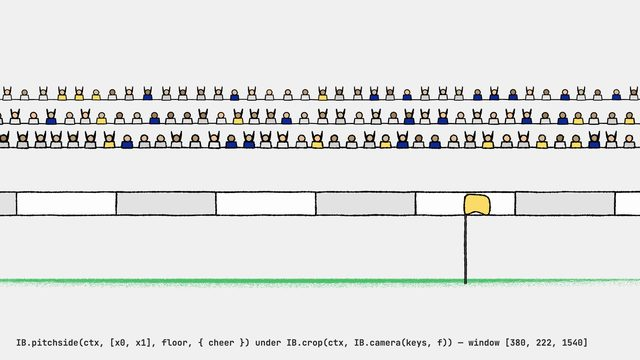
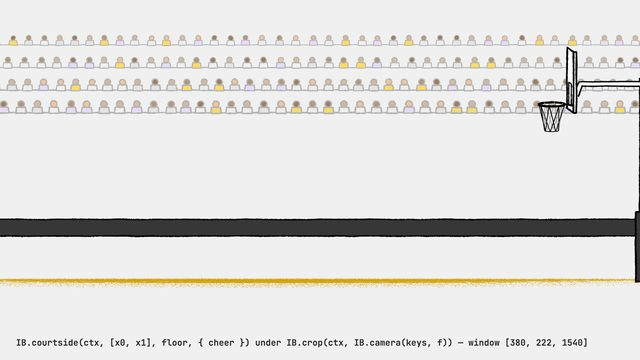
feat: 실내 경기장 배경과 옅은 관중
농구 골대는 가는 먹선이라 관중석 앞에서 묻혔다. IB.stands에 faint(회색 선, 옅은 채움)를 더하고, 관중·코트 옆 벽·마루를 한 번에 그리는 IB.courtside를 둔다. 관중을 줄이거나 빼는 안은 경기장 분위기가 사라져서 버렸다.

Claude-Session: https://claude.ai/code/session_01SxpfC2T1LyEk5ytvqY9P1D

Changed region(s): [[0.0, 0.0917, 1.0, 0.4278], [0.0, 0.5194, 1.0, 0.825], [0.0312, 0.9472, 0.0938, 0.9778]]

diff --git a/IBM/kit/props/sports.js b/IBM/kit/props/sports.js
@@ -1,4 +1,4 @@
-/* props/sports.js — the ball games: the flight of a ball under gravity with its bounces and roll (IB.flight, IB.aim), the balls (IB.soccerBall, IB.basketball, IB.ballTrail), a football goal and a basketball hoop seen from the side with a hint of depth (IB.soccerGoal, IB.hoop), the crowd in the stands and the hoarding in front of them (IB.stands, IB.adBoards, both with the grass in IB.pitchside), the corner flag (IB.cornerFlag), a camera that eases between crop windows (IB.camera) and a scoreboard of drawn segment digits (IB.scoreboard, IB.segDigits). Sizes are for a wide shot where a 1.8 m player is 360 px tall (200 px a metre); opts.s scales a part from there, and line widths stay in screen px. Needs ink.js. */
+/* props/sports.js — the ball games: the flight of a ball under gravity with its bounces and roll (IB.flight, IB.aim), the balls (IB.soccerBall, IB.basketball, IB.ballTrail), a football goal and a basketball hoop seen from the side with a hint of depth (IB.soccerGoal, IB.hoop), the crowd in the stands and the hoarding in front of them (IB.stands, IB.adBoards, both with the grass in IB.pitchside and the arena's in IB.courtside), the corner flag (IB.cornerFlag), a camera that eases between crop windows (IB.camera) and a scoreboard of drawn segment digits (IB.scoreboard, IB.segDigits). Sizes are for a wide shot where a 1.8 m player is 360 px tall (200 px a metre); opts.s scales a part from there, and line widths stay in screen px. Needs ink.js. */
 (function (g) {
   const IB = g.IB, C = IB.C, MG = g.MG;
   const MESH = '#9a9a9a';   // net strings: lighter than ink so the players and the ball read over them
@@ -160,18 +160,19 @@
 
   /* ---------- the crowd and the scoreboard ---------- */
 
-  /* stands(ctx, [x0, x1], top, opts) — the crowd behind the pitch or the court: `rows` tiers of seated fans (a head and a pair of shoulders each), the far rows smaller and greyer, a rail in front of each tier. Most fans are grey; `colors` (the two teams' colours) dress one in `share` of them. cheer: 0 seated still, 1 | 2 the two drawings of a cheer (alternate them on twos: a scattered half of the crowd throws its arms up on each), 'up' everyone standing with arms up (a goal). opts: rows (3), gap (46 px between fans), rh (row height 64 px), s, seed. */
+  /* stands(ctx, [x0, x1], top, opts) — the crowd behind the pitch or the court: `rows` tiers of seated fans (a head and a pair of shoulders each), the far rows smaller and greyer, a rail in front of each tier. Most fans are grey; `colors` (the two teams' colours) dress one in `share` of them. cheer: 0 seated still, 1 | 2 the two drawings of a cheer (alternate them on twos: a scattered half of the crowd throws its arms up on each), 'up' everyone standing with arms up (a goal). opts: rows (3), gap (46 px between fans), rh (row height 64 px), s, seed, faint (grey lines and paler fills: a crowd that sits behind something drawn in ink, like a hoop, and must not compete with it). */
   IB.stands = (ctx, [x0, x1], top, o = {}) => {
     const s = o.s || 1, rows = o.rows || 3, gap = (o.gap || 46) * s, rh = (o.rh || 64) * s, seed = o.seed || 700, cols = o.colors || [], share = o.share == null ? 0.3 : o.share, ch = o.cheer || 0;
+    const line = o.faint ? '#b4b4b4' : C.ink, greys = o.faint ? ['#ececec', '#e4e4e4', '#efefef'] : ['#dedede', '#cfcfcf', '#e6e6e6'];
     for (let row = 0; row < rows; row++) {
       const k = 0.78 + 0.22 * (row / Math.max(1, rows - 1)), y = top + row * rh, r = MG.rng(seed + row * 37), lw = 1.6 + row * 0.35;
-      IB.ink(ctx, [[x0, y + rh * 0.55], [x1, y + rh * 0.55]], { w: lw, seed: seed + 3 + row, taper: false });
+      IB.ink(ctx, [[x0, y + rh * 0.55], [x1, y + rh * 0.55]], { w: lw, color: line, seed: seed + 3 + row, taper: false });
       for (let x = x0 + (row % 2) * gap * 0.5; x < x1; x += gap * (0.9 + 0.2 * r())) {
-        const pick = r(), color = pick < share && cols.length ? cols[Math.floor(r() * cols.length)] : ['#dedede', '#cfcfcf', '#e6e6e6'][Math.floor(r() * 3)], skin = C.skin[Math.floor(r() * 5)], odd = r() < 0.5;
+        const pick = r(), color = pick < share && cols.length ? cols[Math.floor(r() * cols.length)] : greys[Math.floor(r() * 3)], skin = C.skin[Math.floor(r() * 5)], odd = r() < 0.5;
         const up = ch === 'up' || (ch === 1 && odd) || (ch === 2 && !odd), lift = up && ch === 'up' ? 0.25 * rh : 0, hr = 9 * s * k, by = y + rh * 0.5 - lift;
-        if (up) [-1, 1].forEach((sd) => IB.seg(ctx, x + sd * 8 * s * k, by - 10 * s * k, x + sd * 13 * s * k, by - 40 * s * k, { w: lw * 1.6, color: C.ink, seed: seed + row + sd }));
-        IB.ink(ctx, [[x - 15 * s * k, by + 4], [x - 13 * s * k, by - 12 * s * k], [x + 13 * s * k, by - 12 * s * k], [x + 15 * s * k, by + 4]], { closed: true, smooth: false, fill: color, w: lw, seed: seed + row * 7 + Math.round(x) });
-        IB.oval(ctx, x, by - 12 * s * k - hr, hr, hr, { fill: skin, w: lw, seed: seed + Math.round(x) + row, n: 9 });
+        if (up) [-1, 1].forEach((sd) => IB.seg(ctx, x + sd * 8 * s * k, by - 10 * s * k, x + sd * 13 * s * k, by - 40 * s * k, { w: lw * 1.6, color: line, seed: seed + row + sd }));
+        IB.ink(ctx, [[x - 15 * s * k, by + 4], [x - 13 * s * k, by - 12 * s * k], [x + 13 * s * k, by - 12 * s * k], [x + 15 * s * k, by + 4]], { closed: true, smooth: false, fill: color, w: lw, color: line, seed: seed + row * 7 + Math.round(x) });
+        IB.oval(ctx, x, by - 12 * s * k - hr, hr, hr, { fill: skin, w: lw, color: line, seed: seed + Math.round(x) + row, n: 9 });
       }
     }
   };
@@ -196,6 +197,13 @@
     IB.stands(ctx, [x0, x1], floor - 470, { colors: o.colors || [C.navy, C.yellow], share: 0.35, cheer: o.cheer || 0, s: 0.9, seed: o.seed || 710 });
     IB.adBoards(ctx, [x0 - 40, x1 + 40], floor, { back: 160, ht: 56 });
     IB.smear(ctx, (x0 + x1) / 2, floor - 6, x1 - x0 + 200, { h: 16, color: C.green, seed: 9 });
+  };
+
+  /* courtside(ctx, [x0, x1], floor, opts) — the backdrop of a basketball shot in one call: the arena crowd (IB.stands, four faint rows from floor - 600, so the hoop's ink reads over them), a padded courtside wall 110 px behind the floor line, and the wooden floor as a mustard chalk smear. opts: cheer, colors, seed. */
+  IB.courtside = (ctx, [x0, x1], floor, o = {}) => {
+    IB.stands(ctx, [x0, x1], floor - 600, { rows: 4, colors: o.colors || [C.yellow, C.lavender], share: 0.3, cheer: o.cheer || 0, s: 0.85, seed: o.seed || 720, faint: true });
+    IB.ink(ctx, [[x0 - 40, floor - 150], [x1 + 40, floor - 150], [x1 + 40, floor - 110], [x0 - 40, floor - 110]], { closed: true, smooth: false, fill: C.charcoal, w: 2.6, seed: 760 });
+    IB.smear(ctx, (x0 + x1) / 2, floor - 6, x1 - x0 + 200, { h: 16, color: C.mustard, seed: 11 });
   };
 
   /* camera(keys, f) — the crop window [x, y, w] (for IB.crop) at frame f, from [frame, [x, y, w]] keys: held before the first and after the last, eased with a smoothstep between two keys. Call it with the frame of the drawing (on twos) so the camera moves on twos with the players. */

diff --git a/IBM/parts/props/sports-pitch.html b/IBM/parts/props/sports-pitch.html
@@ -9,7 +9,7 @@
 <script src="../../kit/props/sports.js"></script>
 <script src="../sample.js"></script>
 <script>
-/* 소품 견본: 축구 장면의 배경 IB.pitchside(관중석, 빈 광고판, 초록 분필 잔디를 한 번에)와 코너 플래그 IB.cornerFlag(두 그림을 2프레임마다 바꾸면 바람에 펄럭인다), 그것을 따라가는 카메라 IB.camera. 카메라는 [프레임, [x, y, w]] 키 사이를 smoothstep으로 옮기는 크롭 창이고(IB.crop에 넘긴다), 선수와 같은 2프레임 격자의 프레임으로 부르면 카메라도 2프레임 단위로 움직인다. 여기서는 1100 px 창(1.75배)에서 0.5초 동안 오른쪽으로 팬했다가, 1540 px 창으로 물러난다: 페널티킥 장면이 키커에서 골키퍼로 공을 따라가는 그 이동이다. */
+/* 소품 견본: 축구 장면의 배경 IB.pitchside(관중석, 빈 광고판, 초록 분필 잔디를 한 번에)와 코너 플래그 IB.cornerFlag(두 그림을 2프레임마다 바꾸면 바람에 펄럭인다), 농구 장면의 배경 IB.courtside(옅은 회색 관중 네 줄, 코트 옆 벽, 겨자색 마루 스미어: 농구 골대의 먹선이 관중 위에서 읽히도록 관중을 옅게 그린다, 견본의 뒤쪽 절반), 그것을 따라가는 카메라 IB.camera. 카메라는 [프레임, [x, y, w]] 키 사이를 smoothstep으로 옮기는 크롭 창이고(IB.crop에 넘긴다), 선수와 같은 2프레임 격자의 프레임으로 부르면 카메라도 2프레임 단위로 움직인다. 여기서는 1100 px 창(1.75배)에서 0.5초 동안 오른쪽으로 팬했다가, 1540 px 창으로 물러난다: 페널티킥 장면이 키커에서 골키퍼로 공을 따라가는 그 이동이다. */
 const KEYS = [[0, [40, 400, 1100]], [16, [40, 400, 1100]], [28, [820, 400, 1100]], [52, [820, 400, 1100]], [68, [380, 222, 1540]], [96, [380, 222, 1540]]];
 MG.scene({
   title: 'props / sports-pitch',
@@ -19,10 +19,11 @@ MG.scene({
     IB.bg(ctx);
     const f = IB.frame(IB.twos(t)), cam = IB.camera(KEYS, f);
     IB.crop(ctx, cam);
-    IB.pitchside(ctx, [-20, 2100], 900, { cheer: f >= 52 ? 1 + (f / 2) % 2 : 0 });
-    IB.cornerFlag(ctx, [1500, 905], { s: 0.7, wave: (f / 2) % 2 });
+    const indoor = t >= 2;   // the first half shows the pitch, the second the arena
+    if (!indoor) { IB.pitchside(ctx, [-20, 2100], 900, { cheer: f >= 40 ? 1 + (f / 2) % 2 : 0 }); IB.cornerFlag(ctx, [1500, 905], { s: 0.7, wave: (f / 2) % 2 }); }
+    else { IB.courtside(ctx, [-20, 2100], 900, { cheer: f >= 80 ? 1 + (f / 2) % 2 : 0 }); IB.hoop(ctx, [1760, 900], { s: 0.7 }); }
     ctx.setTransform(1, 0, 0, 1, 0, 0);
-    SAMPLE.caption(ctx, `IB.pitchside(ctx, [x0, x1], floor, { cheer }) under IB.crop(ctx, IB.camera(keys, f)) — window [${cam.map((v) => Math.round(v)).join(', ')}]`);
+    SAMPLE.caption(ctx, `${indoor ? 'IB.courtside' : 'IB.pitchside'}(ctx, [x0, x1], floor, { cheer }) under IB.crop(ctx, IB.camera(keys, f)) — window [${cam.map((v) => Math.round(v)).join(', ')}]`);
   },
 });
 </script>
